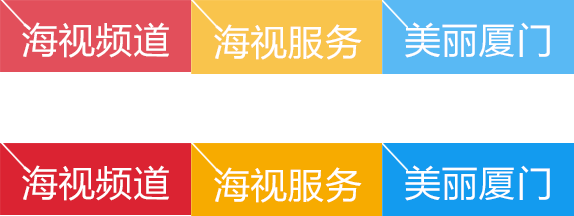
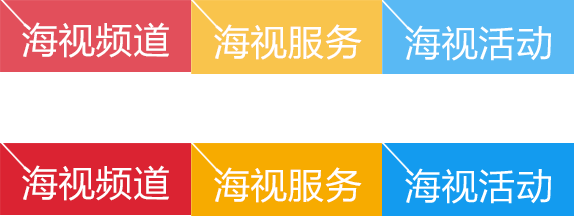
导航交互效果修改，媒体地图修改，首页美丽厦门改成海视活动

Changed region(s): [[0.6516, 0.6667, 0.9774, 0.9444], [0.6812, 0.1111, 0.9774, 0.2778]]

diff --git a/媒体地图.html b/媒体地图.html
@@ -49,6 +49,7 @@
             	<ul role="navigation">
                 	<li class="li">
 						<a href="#" class="a1">节目展播</a>
+						<span class="s1">+</span>
 						<ul>
 							<li><a href="#">人民会堂</a></li>
 							<li><a href="#">白鹭洲</a></li>
@@ -57,6 +58,7 @@
 					</li>
                     <li class="li">
 						<a href="#" class="a1">海视活动</a>
+						<span class="s1">+</span>
 						<ul>
 							<li><a href="#">魅力厦门</a></li>
 							<li><a href="#">中国梦之声</a></li>
@@ -103,7 +105,7 @@
                     </div>
                     <div class="b b2">
                         <h2 class="vh">媒体地图</h2>
-                        <a href="#"><img src="img/map.jpg" width="720" height="685" /></a>
+                        <a href="#"><img src="img/map.jpg" /></a>
                     </div>
                     <div class="b b3">
                         <h2 class="vh">媒体概况</h2>

diff --git a/媒体地图1.html b/媒体地图1.html
@@ -49,6 +49,7 @@
             	<ul role="navigation">
                 	<li class="li">
 						<a href="#" class="a1">节目展播</a>
+						<span class="s1">+</span>
 						<ul>
 							<li><a href="#">人民会堂</a></li>
 							<li><a href="#">白鹭洲</a></li>
@@ -57,6 +58,7 @@
 					</li>
                     <li class="li">
 						<a href="#" class="a1">海视活动</a>
+						<span class="s1">+</span>
 						<ul>
 							<li><a href="#">魅力厦门</a></li>
 							<li><a href="#">中国梦之声</a></li>
@@ -69,7 +71,7 @@
             	<div class="m m6 mb tab" role="tab">
                     <div class="b b2 active">
                         <h2 class="vh">媒体地图</h2>
-                        <a href="#"><img src="img/map.jpg" width="720" height="685" /></a>
+                        <a href="#"><img src="img/map.jpg" /></a>
                     </div>
                 </div>
                 <!--选项卡-->

diff --git a/海视频道.html b/海视频道.html
@@ -47,14 +47,18 @@
         <div class="r3 clearfix">
         	<div class="c c1 fl">
             	<ul role="navigation">
-                	<li class="li"><a href="#" class="a1">节目展播</a>
+                	<li class="li">
+						<a href="#" class="a1">节目展播</a>
+						<span class="s1">+</span>
 						<ul>
 							<li><a href="#">人民会堂</a></li>
 							<li><a href="#">白鹭洲</a></li>
 							<li><a href="#">中山路</a></li>
 						</ul>
 					</li>
-                    <li class="li"><a href="#" class="a1">海视活动</a>
+                    <li class="li">
+						<a href="#" class="a1">海视活动</a>
+						<span class="s1">+</span>
 						<ul>
 							<li><a href="#">魅力厦门</a></li>
 							<li><a href="#">中国梦之声</a></li>

diff --git a/关于我们.html b/关于我们.html
@@ -49,6 +49,7 @@
             	<ul role="navigation">
                 	<li class="li">
 						<a href="#" class="a1">节目展播</a>
+						<span class="s1">+</span>
 						<ul>
 							<li><a href="#">人民会堂</a></li>
 							<li><a href="#">白鹭洲</a></li>
@@ -57,6 +58,7 @@
 					</li>
                     <li class="li">
 						<a href="#" class="a1">海视活动</a>
+						<span class="s1">+</span>
 						<ul>
 							<li><a href="#">魅力厦门</a></li>
 							<li><a href="#">中国梦之声</a></li>

diff --git a/报名参加.html b/报名参加.html
@@ -49,6 +49,7 @@
             	<ul role="navigation">
                 	<li class="li">
 						<a href="#" class="a1">节目展播</a>
+						<span class="s1">+</span>
 						<ul>
 							<li><a href="#">人民会堂</a></li>
 							<li><a href="#">白鹭洲</a></li>
@@ -57,6 +58,7 @@
 					</li>
                     <li class="li">
 						<a href="#" class="a1">海视活动</a>
+						<span class="s1">+</span>
 						<ul>
 							<li><a href="#">魅力厦门</a></li>
 							<li><a href="#">中国梦之声</a></li>

diff --git a/海视服务.html b/海视服务.html
@@ -49,6 +49,7 @@
             	<ul role="navigation">
                 	<li class="li">
 						<a href="#" class="a1">节目展播</a>
+						<span class="s1">+</span>
 						<ul>
 							<li><a href="#">人民会堂</a></li>
 							<li><a href="#">白鹭洲</a></li>
@@ -57,6 +58,7 @@
 					</li>
                     <li class="li">
 						<a href="#" class="a1">海视活动</a>
+						<span class="s1">+</span>
 						<ul>
 							<li><a href="#">魅力厦门</a></li>
 							<li><a href="#">中国梦之声</a></li>

diff --git a/海视活动.html b/海视活动.html
@@ -49,6 +49,7 @@
             	<ul role="navigation">
                 	<li class="li">
 						<a href="#" class="a1">节目展播</a>
+						<span class="s1">+</span>
 						<ul>
 							<li><a href="#">人民会堂</a></li>
 							<li><a href="#">白鹭洲</a></li>
@@ -57,6 +58,7 @@
 					</li>
                     <li class="li">
 						<a href="#" class="a1">海视活动</a>
+						<span class="s1">+</span>
 						<ul>
 							<li><a href="#">魅力厦门</a></li>
 							<li><a href="#">中国梦之声</a></li>

diff --git a/css/xmnn.css b/css/xmnn.css
@@ -130,6 +130,8 @@ strong{font-weight:bold;}
 #b .r2 .c2{padding-top:20px;}
 #b .r3{overflow:hidden;}
 #b .r3 .c1{width:214px; padding-top:17px;}
+#b .r3 .c1 .li{position:relative;}
+#b .r3 .c1 .s1{position:absolute; right:33px; top:8px; cursor:pointer; color:#fff;}
 #b .r3 .c1 a{display:block; width:185px; height:32px; line-height:32px; background:#D2D4D4; text-align:center; font-size:16px;margin-bottom:8px;}
 #b .r3 .c1 a:hover,
 #b .r3 .c1 .a1,

diff --git a/js/xmnn.js b/js/xmnn.js
@@ -43,7 +43,9 @@ $(function(){
 		return false;
 	})
 	//二级导航
-	$("#b .r3 .c1 .a1").hover(function(){
-		$(this).siblings("ul").show();	
+	$("#b .r3 .c1 .s1").toggle(function(){
+		$(this).text('-').siblings("ul").show();
+	},function(){
+		$(this).text('+').siblings("ul").hide();	
 	})
 })
